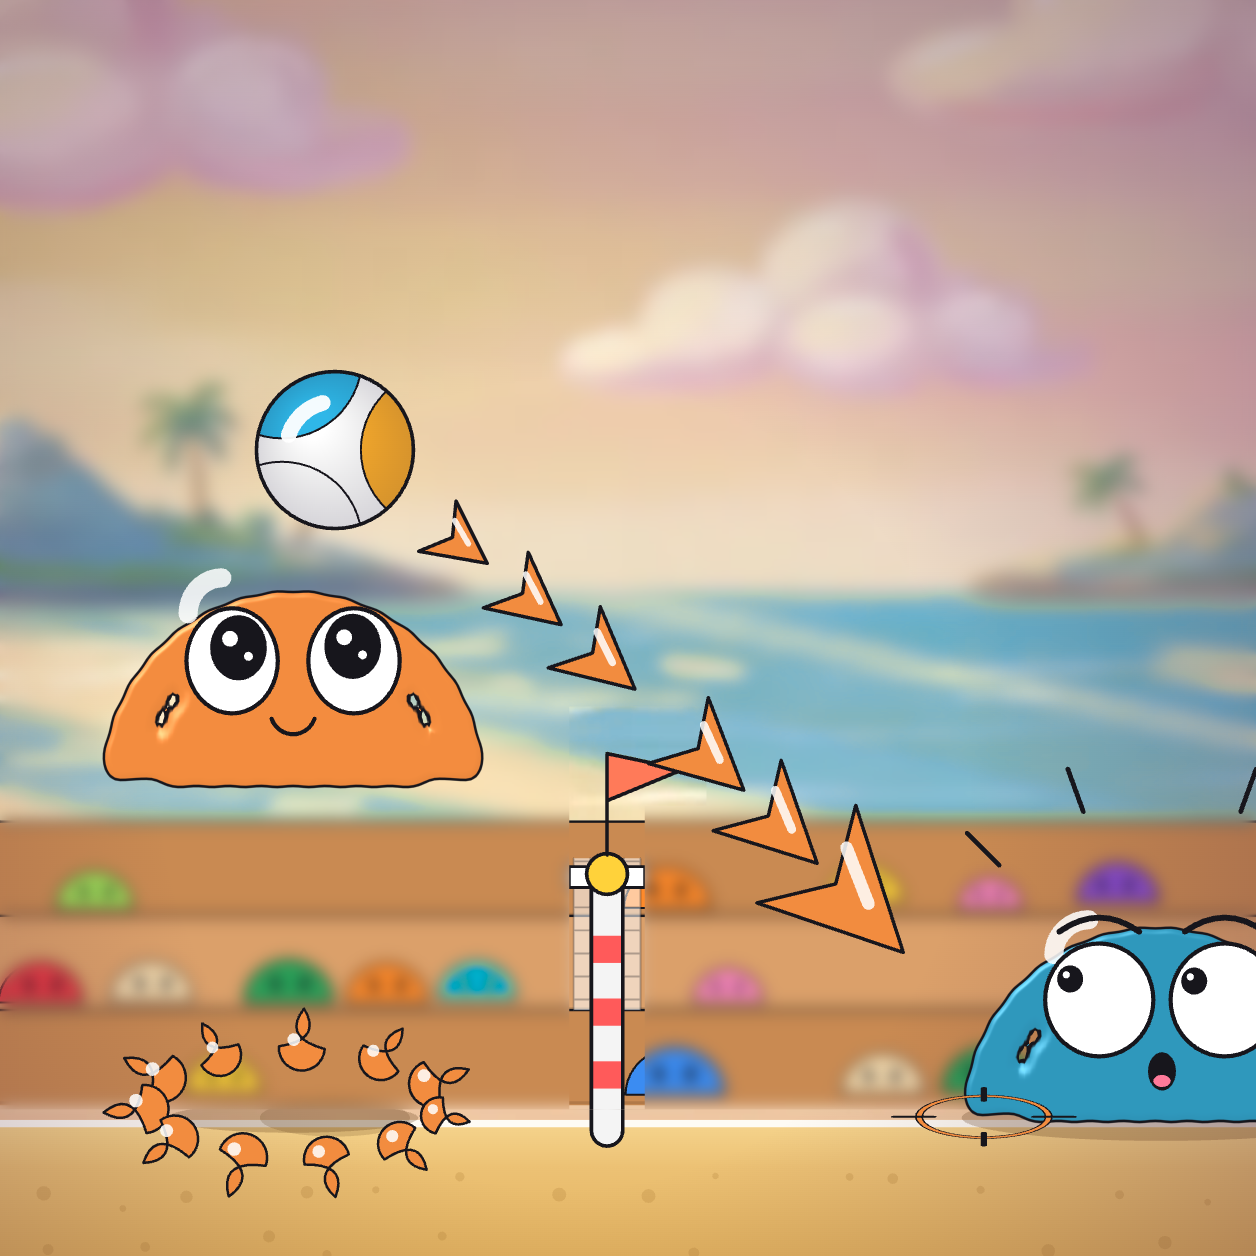
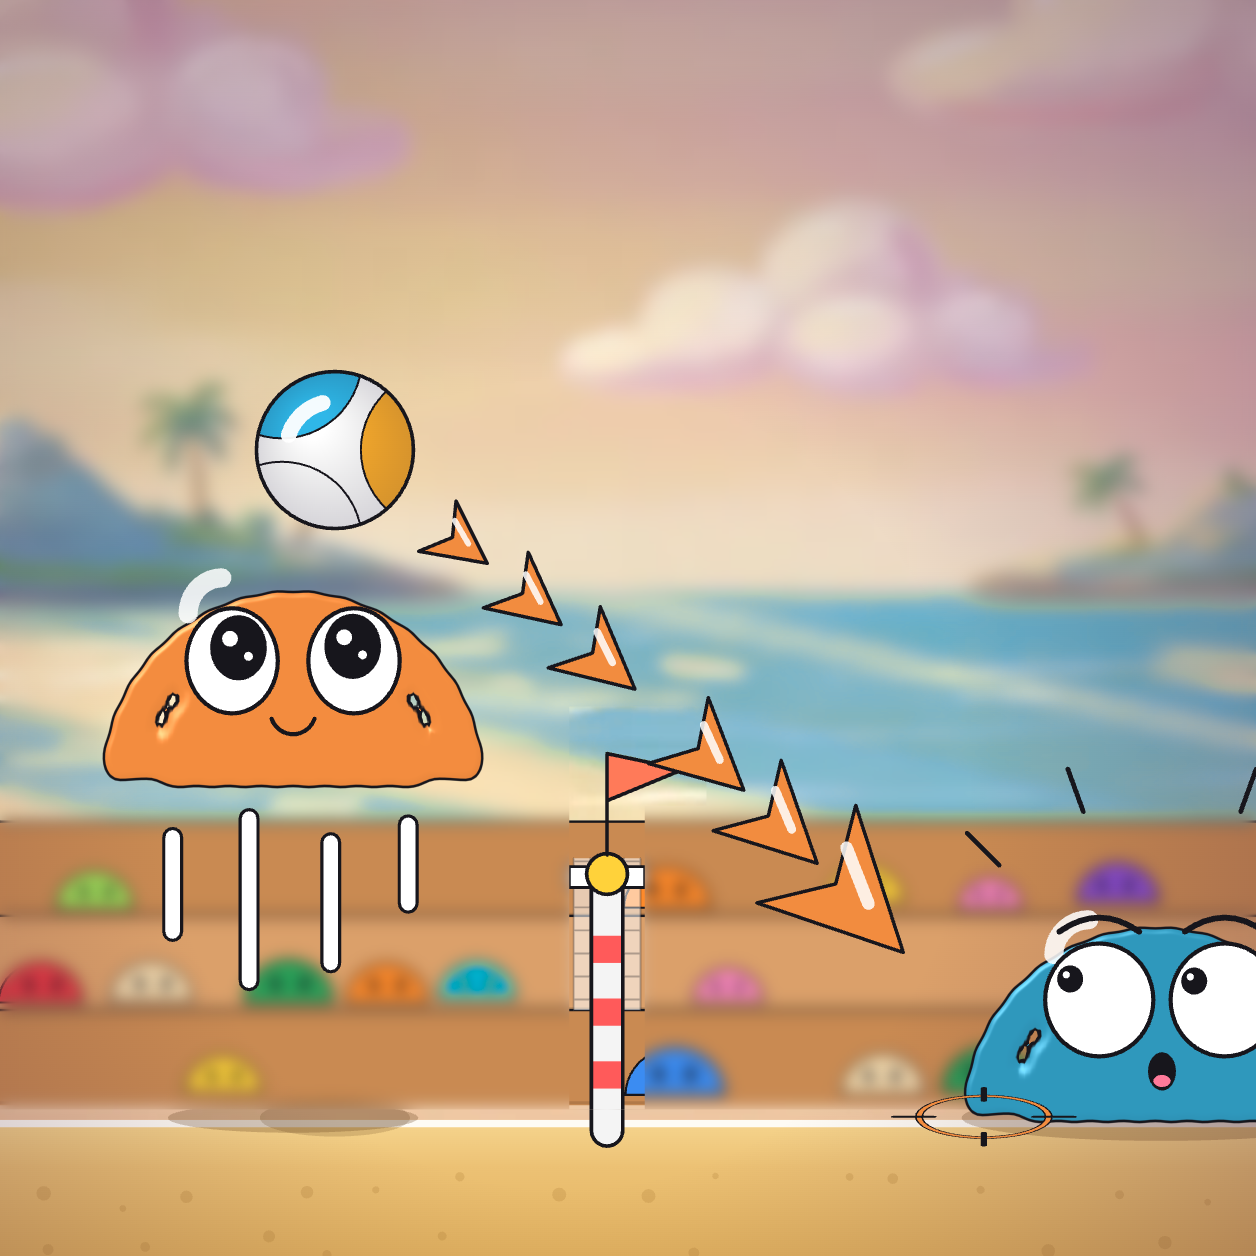
build: thumb com riscos de impulso no lugar dos respingos de chao
- tools/thumb.html: a coroa de chao saiu; 4 riscos verticais brancos com contorno de
  tinta, soltos embaixo da Laranjinha (vao e comprimentos desencontrados); sem efeito
  para envelhecer, o quadro sai num desenho so
- marketing/thumb: opcoes, tiles e a final regeradas

Claude-Session: https://claude.ai/code/session_01PFBGZbJjoog63eKZj94J4v

diff --git a/tools/thumb.html b/tools/thumb.html
@@ -6,7 +6,8 @@
 // Thumb da Poki feita com o proprio jogo (porte do slime-merge): a partida monta a cena pelo
 // roteiro da cortada (a Laranjinha no ar, a mira em setas e a reticula no piso do rival) e a cena
 // do jogo desenha os quatro canvases (fundo da praia com a arte, plateia, piso, gosma em WebGL2,
-// rostos, bola, mira e respingos), com a camera presa num quadro fixo. Direcao A, skin padrao.
+// rostos, bola e reticula), com a camera presa num quadro fixo; as setas da mira e os riscos de
+// impulso vao por cima. Direcao A, skin padrao.
 // Regras (developers.poki.com/guide/game-thumbnail, as mesmas do slime-merge):
 //   - quadrado 1:1 de no minimo 628 px, sangrado: sem borda, margem nem tarja (a Poki
 //     arredonda os cantos);
@@ -15,8 +16,8 @@
 //   - parecida com o jogo de verdade; contraste alto e nada perto do #83FFE7 do site;
 //   - legivel nos tiles pequenos (ver ?grade).
 // Desenho (§3.11): a Laranjinha no ar na pose da cortada; linha de gotas (aqui setas, pedido
-// do usuario: o jogo segue com gotas), reticula no piso e
-// respingos na cor do time (sem anel branco); plateia desfocada; sem texto. A Arena ainda nao
+// do usuario: o jogo segue com gotas), reticula no piso e respingos na cor do time (aqui riscos
+// de impulso embaixo da Laranjinha, pedido do usuario); plateia desfocada; sem texto. A Arena ainda nao
 // existe como ginasio: vai a Praia, a do jogo.
 //   ?opcao=quadra&s=1256  a thumb no tamanho s (o canvas #c; a janela pode ter qualquer tamanho)
 //   ?opcao=quadra&grade   folha de conferencia: tiles de 314 a 94 px sobre o #83FFE7
@@ -30,7 +31,6 @@ import { rival } from '../src/jogo/rivais.js';
 import { hexDaMistura } from '../src/cor/km.js';
 import { criarVista } from '../src/render/vista.js';
 import { criarCena, QUALIDADES } from '../src/render/cena.js';
-import { tonalidade } from '../src/render/celebracao.js';
 import { paraTela, aplicar } from '../src/render/camera.js';
 import { ESTILOS } from '../src/render/quadra.js';
 import { TINTA } from '../src/render/fundo.js';
@@ -130,10 +130,6 @@ P.jogadores[0].expr = O.caras[0];
 P.jogadores[1].expr = O.caras[1];
 
 const o2 = { cores, festa: null, inicio: null, saque: null, pulsoSaque: 0, alvoSaque: null };
-// respingos na cor do time no piso, onde a Laranjinha pulou (a coroa de chao no comeco: as
-// gotas abrindo, antes do anel fino aparecer; nada de anel branco nem circulo-fantasma). Em volta
-// da bola as gotas pareciam enfeite na cabeca dela.
-cena.coroa(O.x, 0.15, cores[0], { chao: true, miolo: tonalidade(cores[0], 0.6), r0: 1.1, r1: 2.3, n: 11, esc: 1.05, dur: 2 });
 
 /** Camera presa no quadro da opcao (o diretor sem tempo nao mexe no estado). */
 function prender(n) {
@@ -147,9 +143,6 @@ function prender(n) {
 /** Desenha a cena em n x n e compoe as camadas em cv. */
 function thumb(cv, n) {
   lado = n;
-  // os efeitos andam um pouco (a coroa abre, as gotas voam) e o quadro final sai sem tempo
-  prender(n);
-  for (let k = 0; k < 4; k++) cena.desenhar(P, vista, 1, 0.05, o2);
   prender(n);
   cena.desenhar(P, vista, 1, 0, o2);
   cv.width = n;
@@ -178,9 +171,36 @@ function thumb(cv, n) {
   g.restore();
   afastarDaPoki(g, n);
   vinheta(g, n);
+  desenharImpulso(g, cam);
   g.drawImage(el.slime, 0, 0, n, n);
   g.drawImage(el.topo, 0, 0);
   desenharSetas(g, cam);
+}
+
+/**
+ * Riscos de impulso embaixo da Laranjinha (no lugar dos respingos de chao, pedido do usuario):
+ * tracos verticais soltos do corpo (com um vao, comecos e comprimentos desencontrados, os do
+ * meio mais longos), brancos com contorno de tinta como o resto do traco do jogo. Colados na
+ * cupula e afinando, pareciam tentaculos.
+ */
+function desenharImpulso(g, cam) {
+  aplicar(g, cam, 1);
+  const base = P.slimes[0].y;
+  const tr = Math.max(0.03, ESTILOS.a.traco / cam.s);
+  const w = 0.14;
+  const riscos = [[-1.15, 0.5, 0.9], [-0.42, 0.32, 1.55], [0.36, 0.55, 1.15], [1.1, 0.38, 0.75]];
+  g.lineCap = 'round';
+  for (const [cor, larg] of [[TINTA, w + tr * 2], ['#ffffff', w]]) {
+    g.strokeStyle = cor;
+    g.lineWidth = larg;
+    g.beginPath();
+    for (const [dx, vao, l] of riscos) {
+      g.moveTo(O.x + dx, base - vao);
+      g.lineTo(O.x + dx, base - vao - l);
+    }
+    g.stroke();
+  }
+  g.setTransform(1, 0, 0, 1, 0, 0);
 }
 
 /**
